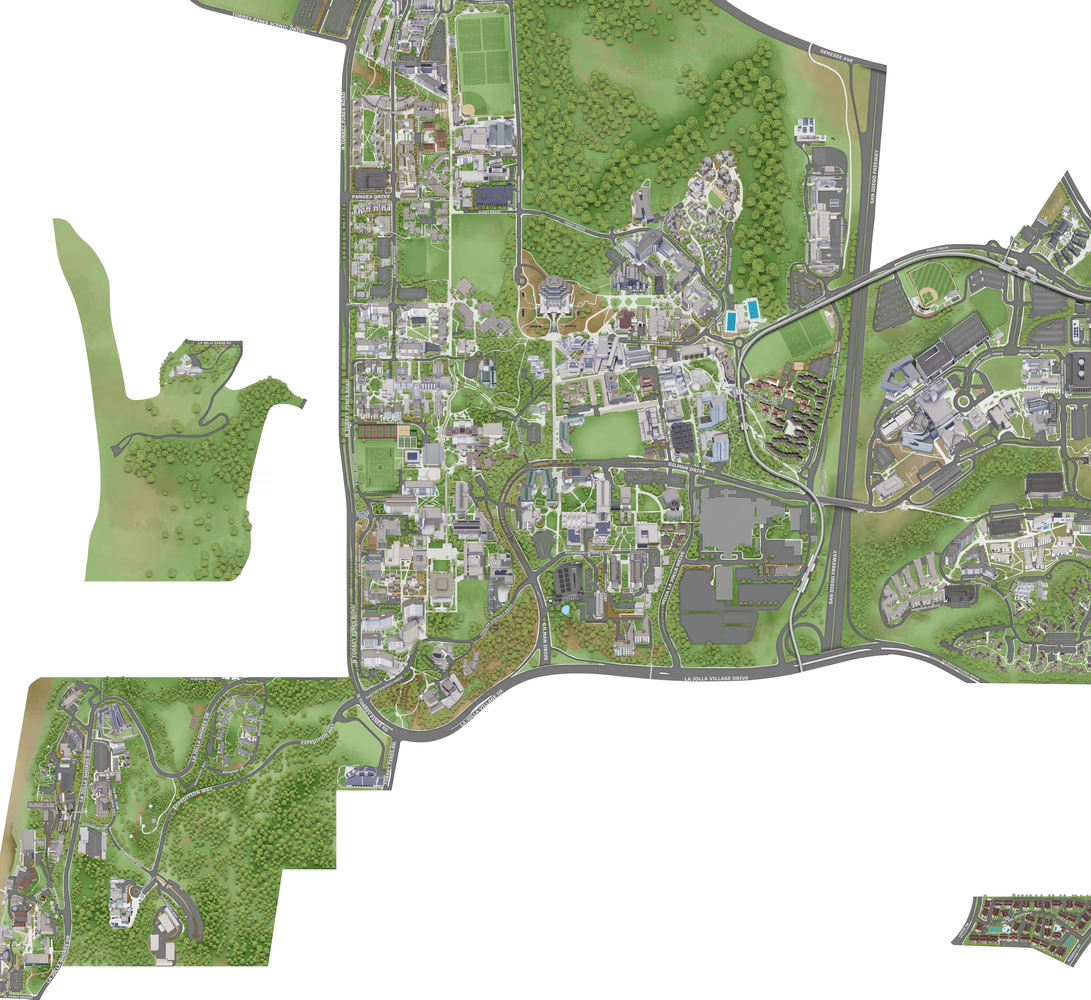
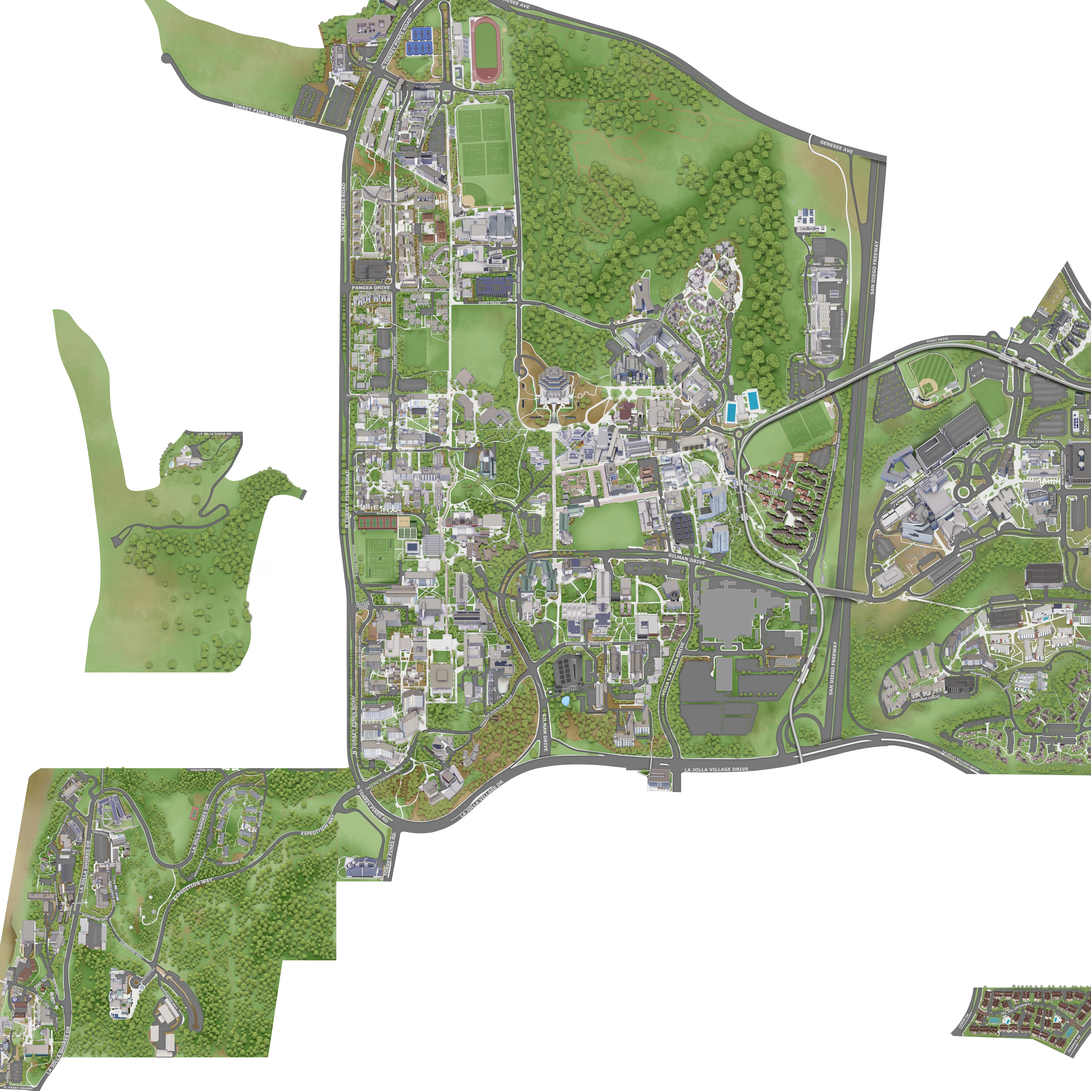
Add buildings (UNEXG, UNEXN, CALIT, SCRM) and update map

diff --git a/classrooms/lib/locations.ts b/classrooms/lib/locations.ts
@@ -5,7 +5,7 @@ export type Location = [latitude: number, longitude: number]
 // Tile bounds used to generate the map image
 const TILE_LEFT = -6
 const TILE_RIGHT = 5
-const TILE_TOP = 4
+const TILE_TOP = 5
 /** maps.ucsd.edu zoom level used for the map image. */
 export const ZOOM = 17
 /** Size of each map tile */

diff --git a/README.md b/README.md
@@ -42,7 +42,7 @@ $ deno task classrooms:build
 $ ./scripts/deploy.sh ./classrooms/public/ classrooms
 ```
 
-Map image was made with [this tool](https://sheeptester.github.io/words-go-here/misc/ucsd-map.html) (zoom 17, x: -6 to 5, y: -6 to 4).
+Map image was made with [this tool](https://sheeptester.github.io/words-go-here/misc/ucsd-map.html) (zoom 17, x: -6 to 5, y: -6 to 5).
 
 <!-- Because the map is now HD, please scale the image down to 3072 by 2816. -->
 
